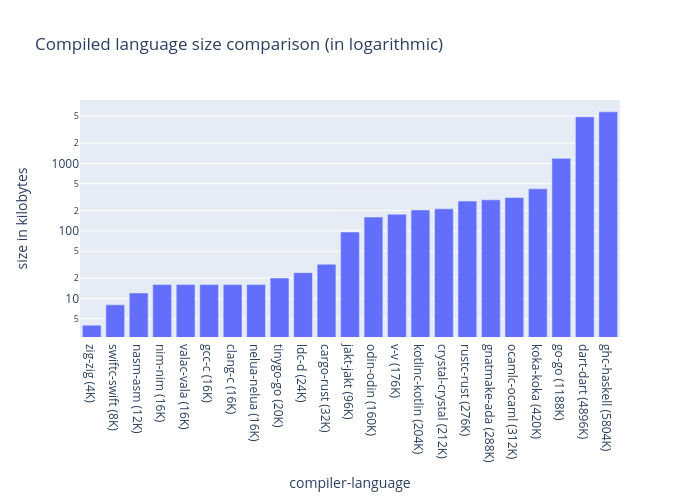
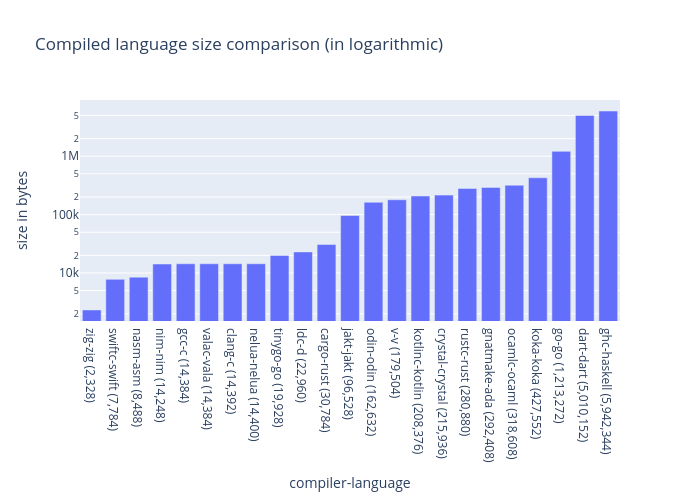
fix: show size in byte instead

diff --git a/scripts/bar_chart.py b/scripts/bar_chart.py
@@ -5,8 +5,9 @@ import plotly.express as px
 file = open("size.txt", "r")
 size_data = file.readlines()
 
-lang_size = list(map(lambda x: int(x.split()[0]), size_data))
-lang_name = list(map(lambda x: f"{x.split()[1]} ({x.split()[0]}K)", size_data))
+lang_size = list(
+    map(lambda x: int(''.join(x.split()[0].split(","))), size_data))
+lang_name = list(map(lambda x: f"{x.split()[1]} ({x.split()[0]})", size_data))
 
 
 def generate_image(log: bool):
@@ -14,7 +15,7 @@ def generate_image(log: bool):
         title=f"Compiled language size comparison {'(in logarithmic)' if log else ''}",
         x=lang_name,
         y=lang_size,
-        labels={"x": "compiler-language", "y": "size in kilobytes"},
+        labels={"x": "compiler-language", "y": "size in bytes"},
         log_y=log
     )
 

diff --git a/README.md b/README.md
@@ -12,31 +12,30 @@ Logarithmic chart:
 
 ### Table
 
-| compiler - language | version \* | size (in kilobytes) \*\* |
-| ------------------- | ---------- | ------------------------ |
-| zig-zig             |            | 4                        |
-| swiftc-swift        |            | 8                        |
-| nasm-asm            |            | 12                       |
-| nim-nim             |            | 16                       |
-| valac-vala          |            | 16                       |
-| gcc-c               |            | 16                       |
-| clang-c             |            | 16                       |
-| nelua-nelua         |            | 16                       |
-| tinygo-go           |            | 20                       |
-| ldc-d               |            | 24                       |
-| cargo-rust          |            | 32                       |
-| jakt-jakt           |            | 96                       |
-| odin-odin           |            | 160                      |
-| v-v                 |            | 176                      |
-| kotlinc-kotlin      |            | 204                      |
-| crystal-crystal     |            | 212                      |
-| rustc-rust          |            | 276                      |
-| gnatmake-ada        |            | 288                      |
-| ocamlc-ocaml        |            | 312                      |
-| koka-koka           |            | 420                      |
-| go-go               |            | 1188                     |
-| dart-dart           |            | 4896                     |
-| ghc-haskell         |            | 5804                     |
+| compiler - language | version \* | size (in bytes) |
+| ------------------- | ---------- | --------------- |
+| zig-zig             |            | 2,328           |
+| swiftc-swift        |            | 7,784           |
+| nasm-asm            |            | 8,488           |
+| nim-nim             |            | 14,248          |
+| valac-vala          |            | 14,384          |
+| gcc-c               |            | 14,384          |
+| clang-c             |            | 14,392          |
+| nelua-nelua         |            | 14,400          |
+| tinygo-go           |            | 19,928          |
+| ldc-d               |            | 22,960          |
+| cargo-rust          |            | 30,784          |
+| jakt-jakt           |            | 96,528          |
+| odin-odin           |            | 162,632         |
+| v-v                 |            | 179,504         |
+| kotlinc-kotlin      |            | 208,376         |
+| crystal-crystal     |            | 215,936         |
+| rustc-rust          |            | 280,880         |
+| gnatmake-ada        |            | 292,408         |
+| ocamlc-ocaml        |            | 318,608         |
+| koka-koka           |            | 427,552         |
+| go-go               |            | 1,213,272       |
+| dart-dart           |            | 5,010,152       |
+| ghc-haskell         |            | 5,942,344       |
 
 \* TODO: add compiler version.\
-\*\* size is calculated as 1024 bytes.
